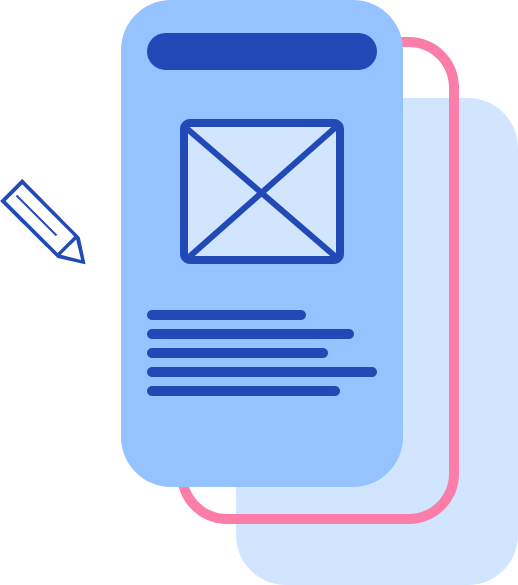
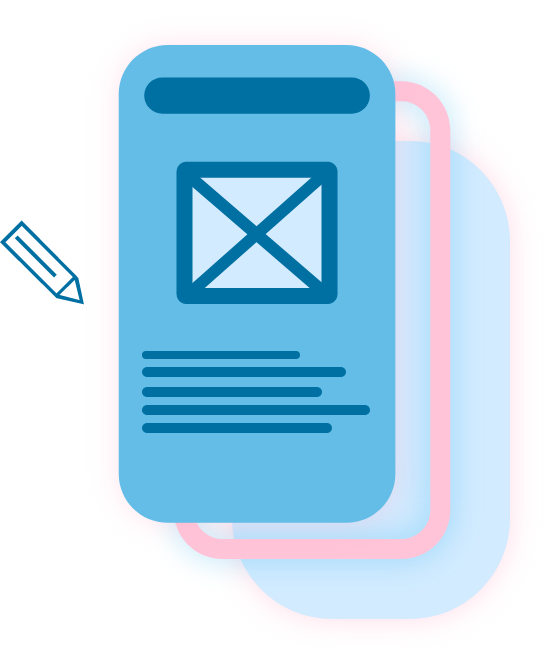
migrate new theme colors

diff --git a/src/scss/base/_variables.scss b/src/scss/base/_variables.scss
@@ -1,24 +1,25 @@
 // background and text colors
-$bg: #F6FAFF;
+$bg: #FFF;
 $fg: #05102E;
+$bg-alternate: #EFFAFF;
 
 // theme colors
-$primary: #224AB7;
-$secondary: #FC7DA7;
-$tertiary: #94C3FF;
-$quaternary: #D1E5FF;
+$primary: #638DE7;
+$secondary: #FFC4D8;
+$tertiary: #D2EBFF;
+$primary-dark: #006FA2;
+$btn-bg: #7ABEDD;
 
 // fonts
-$font: 'Montserrat', sans-serif;
-$font-normal: 500;
+$font: 'Raleway', sans-serif;
+$font-normal: 400;
 $font-bold: 700;
 
 // font sizes
 $font-brand: 16pt;
 $font-nav: 12pt;
-$font-hero: 30pt;
-$font-section: 50pt;
-$font-section-sub: 16pt;
+$font-hero: 28pt;
+$font-section: 40pt;
 $font-heading: 20pt;
 $font-regular: 16pt;
 $font-panel: 200pt;

diff --git a/src/scss/base/_base.scss b/src/scss/base/_base.scss
@@ -30,9 +30,12 @@ p {
 }
 
 .container {
-    padding: 0 60px;
-    max-width: 1920px;
-    margin: 0 auto;
+    position: relative;
+    z-index: 0;
+
+    &.bg-alternate {
+        background: $bg-alternate;
+    }
 }
 
 @media only screen and (max-width: 768px) {
